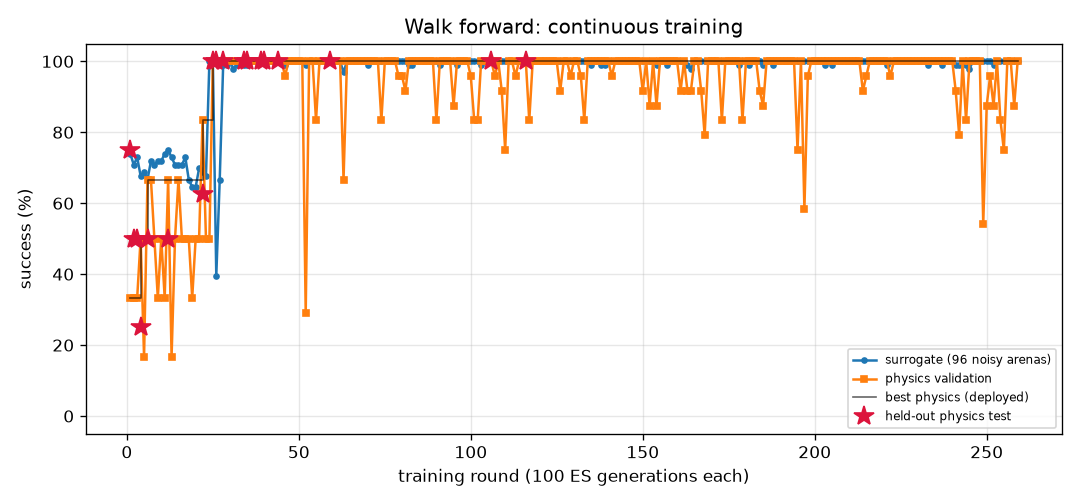
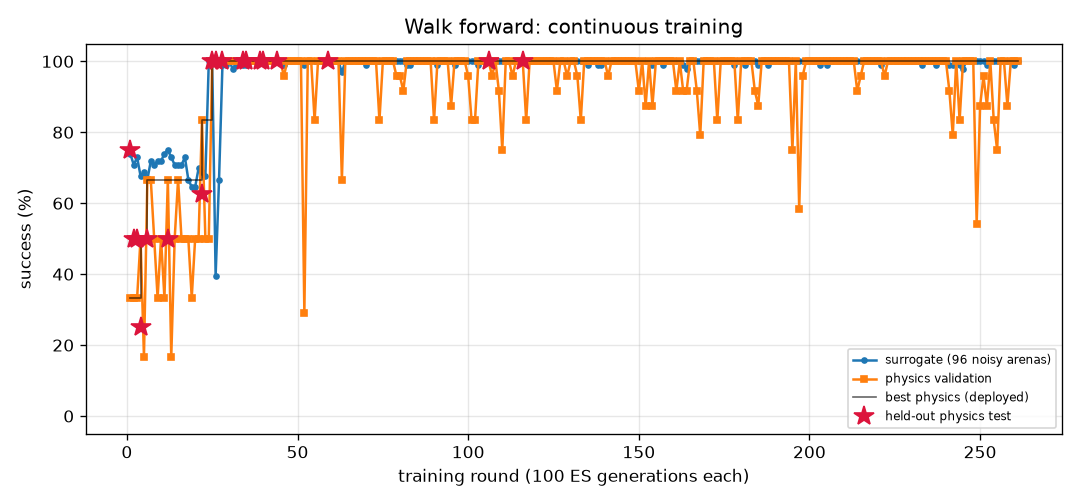
FlyLab: continuous training progress
- walk_forward: optimal, physics val 100% of 24, round 261
- turn: optimal, physics val 100% of 24, round 807
- goto: optimal, physics val 100% of 24, round 214
- odor_seek: optimal, physics val 100% of 24, round 182
- odor_avoid: optimal, physics val 100% of 24, round 733
- light_seek: optimal, physics val 100% of 24, round 409
- light_avoid: optimal, physics val 100% of 24, round 467

diff --git a/projects/09_flylab/training/turn/REPORT.md b/projects/09_flylab/training/turn/REPORT.md
@@ -1,14 +1,14 @@
 # Turn in place (`turn`) — training report
 
-*Auto-generated by `train_brains.py`, last updated 2026-11-01T22:28:25.*
+*Auto-generated by `train_brains.py`, last updated 2026-11-02T19:12:30.*
 
 ![curve](curve.png)
 
 | | |
 |---|---|
-| rounds | 803 |
-| ES generations | 80300 |
-| physics runs | 19518 |
+| rounds | 807 |
+| ES generations | 80700 |
+| physics runs | 19614 |
 | status | **optimal** |
 | best brain | round 80: physics validation **100%** on 24 arenas, surrogate 100% |
 | held-out physics test | **97%** on 32 unseen arenas (95% CI 84%-99%) (errors: [1.6, 3.3, 6.3, 3.7, 1.1, 0.4, 2.4, 2.9, 0.1, 2.6, 0.5, 2.7, 1.5, 3.1, 4.5, 0.2, 0.5, 1.1, 2.0, 4.4, 2.8, 3.2, 0.3, 2.2, 0.5, 3.0, 0.3, 5.4, 0.4, 1.0, 4.7, 10.7]) |
@@ -17,10 +17,6 @@ Physics error per arena: deg from target heading (< 20 = success).
 
 | round | level | gens | sigma | surrogate | physics val | val errors | test | note |
 |---:|---:|---:|---:|---:|---:|---|---:|---|
-| 764 | 3 | 76400 | 0.024 | 99% | 92% | [8.3, 9.9, 4.0, 4.8, 2.9, 1.6, 2.5, 4.4, 2.0, 2.6, 1.6, 2.8, 3.3, 3.7, 1.4, 2.0, 2.2, 1.8, 1.2, 1.7, 3.9, 0.1, 2.3, 2.7] |  | restart from best |
-| 765 | 3 | 76500 | 0.024 | 99% | 67% | [6.3, 2.7, 5.5, 0.8, 1.8, 0.2, 8.4, 7.5, 6.8, 1.0, 4.8, 0.1, 1.2, 1.2, 6.8, 2.7, 0.2, 2.8, 2.9, 3.9, 5.0, 1.3, 6.1, 8.2] |  |  |
-| 766 | 3 | 76600 | 0.025 | 99% | 83% | [3.1, 3.8, 4.1, 1.8, 4.3, 0.7, 6.8, 2.5, 5.8, 0.0, 5.2, 0.7, 1.0, 2.5, 3.1, 0.4, 1.1, 1.1, 0.3, 0.2, 6.4, 1.1, 5.8, 2.6] |  |  |
-| 767 | 3 | 76700 | 0.025 | 99% | 79% | [1.9, 3.5, 2.0, 0.4, 14.8, 113.2, 6.7, 7.9, 8.5, 15.0, 6.8, 3.1, 0.4, 2.0, 5.9, 4.4, 3.6, 4.0, 4.8, 3.4, 4.3, 3.9, 9.7, 3.5] |  |  |
 | 768 | 3 | 76800 | 0.025 | 99% | 92% | [2.6, 2.1, 4.3, 2.9, 4.6, 0.0, 7.1, 6.2, 7.2, 0.5, 5.3, 1.7, 0.7, 2.2, 4.3, 2.1, 1.6, 1.5, 0.6, 2.0, 6.3, 2.6, 6.0, 1.9] |  | restart from best |
 | 769 | 3 | 76900 | 0.024 | 100% | 75% | [6.7, 7.9, 1.4, 1.8, 1.3, 2.3, 4.2, 3.4, 3.4, 0.5, 3.9, 0.8, 3.9, 2.6, 3.8, 0.5, 0.8, 1.2, 0.8, 0.9, 2.9, 1.2, 3.5, 1.5] |  |  |
 | 770 | 3 | 77000 | 0.024 | 97% | 79% | [5.8, 3.0, 5.5, 0.4, 8.1, 1.2, 6.3, 8.2, 5.9, 0.2, 5.8, 0.1, 1.9, 0.3, 5.2, 2.1, 0.2, 1.3, 1.7, 1.5, 7.8, 0.0, 6.8, 6.0] |  |  |
@@ -57,3 +53,7 @@ Physics error per arena: deg from target heading (< 20 = success).
 | 801 | 3 | 80100 | 0.024 | 99% | 88% | [0.8, 0.7, 5.0, 1.7, 3.6, 7.4, 5.5, 5.1, 6.0, 4.1, 5.0, 1.8, 2.5, 0.7, 3.8, 3.3, 1.6, 2.8, 3.1, 10.9, 3.7, 1.0, 5.8, 8.0] |  |  |
 | 802 | 3 | 80200 | 0.025 | 98% | 67% | [8.0, 7.6, 8.5, 1.4, 1.4, 2.7, 8.1, 4.6, 9.5, 2.5, 4.9, 4.3, 2.8, 1.0, 6.1, 3.3, 5.3, 5.9, 3.3, 3.7, 2.5, 4.1, 9.7, 8.9] |  |  |
 | 803 | 3 | 80300 | 0.025 | 99% | 92% | [1.5, 2.7, 1.8, 0.0, 14.2, 1.6, 7.4, 6.9, 7.9, 2.2, 5.5, 3.2, 1.4, 0.9, 5.1, 13.4, 3.6, 3.6, 2.7, 5.8, 4.2, 3.0, 7.2, 3.0] |  |  |
+| 804 | 3 | 80400 | 0.025 | 99% | 100% | [2.0, 1.5, 12.9, 0.9, 13.2, 2.3, 6.9, 9.2, 7.1, 3.1, 4.7, 3.5, 1.4, 2.5, 3.5, 13.1, 3.3, 2.6, 4.7, 4.7, 3.2, 2.7, 6.6, 8.1] |  | restart from best |
+| 805 | 3 | 80500 | 0.024 | 97% | 58% | [8.8, 9.3, 0.9, 0.8, 3.8, 0.5, 4.0, 3.9, 4.2, 0.5, 2.2, 0.9, 1.2, 3.2, 4.3, 1.2, 0.3, 0.9, 1.4, 0.7, 8.8, 2.0, 4.4, 3.6] |  |  |
+| 806 | 3 | 80600 | 0.026 | 100% | 96% | [4.5, 7.8, 1.9, 3.4, 0.8, 0.9, 4.2, 3.3, 1.9, 0.9, 2.8, 0.2, 2.7, 0.6, 2.8, 0.5, 0.5, 1.7, 0.9, 0.4, 3.0, 0.9, 6.0, 2.1] |  |  |
+| 807 | 3 | 80700 | 0.024 | 100% | 83% | [0.0, 4.2, 7.3, 1.6, 3.7, 1.3, 7.3, 9.4, 7.2, 0.8, 6.8, 1.7, 1.5, 0.7, 6.9, 3.0, 1.4, 4.3, 4.3, 3.5, 2.1, 2.3, 8.3, 9.0] |  |  |

diff --git a/projects/09_flylab/training/walk_forward/REPORT.md b/projects/09_flylab/training/walk_forward/REPORT.md
@@ -1,14 +1,14 @@
 # Walk forward (`walk_forward`) — training report
 
-*Auto-generated by `train_brains.py`, last updated 2026-11-02T00:08:43.*
+*Auto-generated by `train_brains.py`, last updated 2026-11-02T00:52:18.*
 
 ![curve](curve.png)
 
 | | |
 |---|---|
-| rounds | 259 |
-| ES generations | 25900 |
-| physics runs | 6230 |
+| rounds | 261 |
+| ES generations | 26100 |
+| physics runs | 6278 |
 | status | **optimal** |
 | best brain | round 116: physics validation **100%** on 24 arenas, surrogate 100% |
 | held-out physics test | **100%** on 32 unseen arenas (95% CI 89%-100%) (errors: [0.13, 0.16, 0.19, 0.16, 0.15, 0.2, 0.17, 0.18, 0.17, 0.19, 0.2, 0.14, 0.17, 0.19, 0.2, 0.2, 0.13, 0.19, 0.16, 0.2, 0.2, 0.16, 0.17, 0.2, 0.13, 0.15, 0.18, 0.14, 0.16, 0.15, 0.19, 0.12]) |
@@ -17,8 +17,6 @@ Physics error per arena: mm from target at the end (< 1.5 and standing still = s
 
 | round | level | gens | sigma | surrogate | physics val | val errors | test | note |
 |---:|---:|---:|---:|---:|---:|---|---:|---|
-| 220 | 3 | 22000 | 0.024 | 100% | 100% | [0.31, 0.33, 0.25, 0.31, 0.34, 0.25, 0.33, 0.28, 0.34, 0.34, 0.24, 0.31, 0.27, 0.26, 0.33, 0.32, 0.3, 0.35, 0.28, 0.34, 0.28, 0.33, 0.3, 0.27] |  | restart from best |
-| 221 | 3 | 22100 | 0.024 | 99% | 100% | [0.24, 0.24, 0.19, 0.24, 0.24, 0.18, 0.24, 0.2, 0.23, 0.22, 0.17, 0.2, 0.2, 0.18, 0.24, 0.21, 0.23, 0.24, 0.21, 0.24, 0.22, 0.22, 0.2, 0.2] |  |  |
 | 222 | 3 | 22200 | 0.025 | 100% | 96% | [0.19, 0.15, 0.1, 0.1, 0.13, 0.07, 0.11, 0.06, 0.11, 0.12, 0.07, 0.16, 0.06, 0.09, 0.08, 0.16, 0.11, 0.1, 0.06, 0.05, 0.11, 0.12, 0.17, 0.06] |  |  |
 | 223 | 3 | 22300 | 0.024 | 100% | 100% | [0.27, 0.24, 0.2, 0.27, 0.24, 0.2, 0.25, 0.24, 0.25, 0.23, 0.19, 0.21, 0.23, 0.2, 0.27, 0.22, 0.27, 0.24, 0.25, 0.26, 0.25, 0.23, 0.21, 0.24] |  |  |
 | 224 | 3 | 22400 | 0.024 | 100% | 100% | [0.3, 0.31, 0.26, 0.3, 0.31, 0.25, 0.31, 0.28, 0.31, 0.3, 0.25, 0.29, 0.27, 0.25, 0.31, 0.29, 0.3, 0.31, 0.28, 0.31, 0.29, 0.3, 0.29, 0.27] |  | restart from best |
@@ -57,3 +55,5 @@ Physics error per arena: mm from target at the end (< 1.5 and standing still = s
 | 257 | 3 | 25700 | 0.024 | 100% | 100% | [0.24, 0.28, 0.17, 0.23, 0.27, 0.17, 0.27, 0.17, 0.27, 0.27, 0.17, 0.25, 0.17, 0.17, 0.25, 0.25, 0.22, 0.28, 0.18, 0.26, 0.19, 0.27, 0.24, 0.18] |  |  |
 | 258 | 3 | 25800 | 0.024 | 100% | 88% | [0.1, 0.13, 0.72, 0.06, 0.1, 0.08, 0.18, 0.02, 0.12, 0.11, 0.13, 0.19, 0.06, 0.54, 0.23, 0.11, 0.05, 0.21, 0.41, 0.2, 0.09, 0.18, 0.12, 0.05] |  |  |
 | 259 | 3 | 25900 | 0.024 | 100% | 100% | [0.28, 0.28, 0.22, 0.28, 0.28, 0.2, 0.28, 0.24, 0.28, 0.25, 0.19, 0.23, 0.24, 0.21, 0.29, 0.24, 0.28, 0.29, 0.25, 0.28, 0.26, 0.25, 0.23, 0.24] |  |  |
+| 260 | 3 | 26000 | 0.024 | 99% | 100% | [0.2, 0.18, 0.23, 0.2, 0.18, 0.23, 0.18, 0.21, 0.18, 0.17, 0.24, 0.16, 0.23, 0.23, 0.2, 0.17, 0.2, 0.18, 0.22, 0.19, 0.23, 0.17, 0.16, 0.23] |  | restart from best |
+| 261 | 3 | 26100 | 0.024 | 100% | 100% | [0.49, 0.46, 0.46, 0.5, 0.46, 0.44, 0.46, 0.48, 0.46, 0.45, 0.42, 0.44, 0.48, 0.44, 0.49, 0.45, 0.5, 0.48, 0.48, 0.49, 0.49, 0.45, 0.44, 0.48] |  |  |

diff --git a/projects/09_flylab/training/goto/REPORT.md b/projects/09_flylab/training/goto/REPORT.md
@@ -1,14 +1,14 @@
 # Go to a location (`goto`) — training report
 
-*Auto-generated by `train_brains.py`, last updated 2026-11-01T21:24:36.*
+*Auto-generated by `train_brains.py`, last updated 2026-11-02T01:07:51.*
 
 ![curve](curve.png)
 
 | | |
 |---|---|
-| rounds | 213 |
-| ES generations | 21300 |
-| physics runs | 5062 |
+| rounds | 214 |
+| ES generations | 21400 |
+| physics runs | 5086 |
 | status | **optimal** |
 | best brain | round 176: physics validation **100%** on 24 arenas, surrogate 100% |
 | held-out physics test | **100%** on 32 unseen arenas (95% CI 89%-100%) (errors: [0.2, 0.32, 0.19, 0.24, 0.18, 0.2, 0.19, 0.17, 0.22, 0.23, 0.23, 0.26, 0.2, 0.19, 0.24, 0.23, 0.22, 0.24, 0.2, 0.22, 0.2, 0.2, 0.26, 0.19, 0.22, 0.18, 0.26, 0.22, 0.2, 0.26, 0.23, 0.23]) |
@@ -17,7 +17,6 @@ Physics error per arena: mm from target at the end (< 1.5 and standing still = s
 
 | round | level | gens | sigma | surrogate | physics val | val errors | test | note |
 |---:|---:|---:|---:|---:|---:|---|---:|---|
-| 174 | 3 | 17400 | 0.025 | 97% | 100% | [0.47, 0.44, 0.38, 0.38, 0.39, 0.37, 0.45, 0.42, 0.44, 0.37, 0.37, 0.37, 0.46, 0.39, 0.36, 0.44, 0.47, 0.46, 0.4, 0.45, 0.43, 0.4, 0.46, 0.38] |  |  |
 | 175 | 3 | 17500 | 0.026 | 97% | 100% | [0.41, 0.44, 0.44, 0.44, 0.44, 0.41, 0.44, 0.45, 0.45, 0.45, 0.44, 0.43, 0.44, 0.46, 0.44, 0.47, 0.44, 0.41, 0.44, 0.45, 0.46, 0.45, 0.43, 0.43] |  | restart from best |
 | 176 | 3 | 17600 | 0.025 | 100% | 100% | [0.25, 0.25, 0.21, 0.23, 0.19, 0.23, 0.23, 0.25, 0.27, 0.17, 0.2, 0.23, 0.26, 0.22, 0.17, 0.21, 0.25, 0.22, 0.17, 0.23, 0.2, 0.18, 0.27, 0.25] | 100% | new best |
 | 177 | 3 | 17700 | 0.024 | 99% | 100% | [0.49, 0.54, 0.53, 0.47, 0.44, 0.45, 0.52, 0.53, 0.54, 0.45, 0.42, 0.44, 0.55, 0.47, 0.52, 0.54, 0.52, 0.5, 0.44, 0.52, 0.52, 0.43, 0.52, 0.48] |  |  |
@@ -57,3 +56,4 @@ Physics error per arena: mm from target at the end (< 1.5 and standing still = s
 | 211 | 3 | 21100 | 0.024 | 100% | 100% | [0.74, 0.73, 0.74, 0.67, 0.63, 0.66, 0.75, 0.68, 0.71, 0.64, 0.62, 0.66, 0.73, 0.59, 0.65, 0.67, 0.75, 0.66, 0.64, 0.71, 0.67, 0.67, 0.74, 0.66] |  |  |
 | 212 | 3 | 21200 | 0.024 | 100% | 100% | [0.42, 0.46, 0.45, 0.39, 0.36, 0.38, 0.45, 0.42, 0.43, 0.37, 0.36, 0.39, 0.45, 0.37, 0.44, 0.44, 0.44, 0.38, 0.36, 0.43, 0.41, 0.39, 0.43, 0.39] |  | restart from best |
 | 213 | 3 | 21300 | 0.024 | 99% | 100% | [0.59, 0.61, 0.48, 0.6, 0.49, 0.56, 0.59, 0.64, 0.61, 0.49, 0.5, 0.58, 0.58, 0.52, 0.5, 0.58, 0.62, 0.6, 0.5, 0.62, 0.56, 0.51, 0.58, 0.62] |  |  |
+| 214 | 3 | 21400 | 0.025 | 100% | 92% | [0.3, 0.34, 0.31, 0.25, 0.06, 0.14, 0.29, 0.28, 0.27, 0.21, 2.43, 0.26, 0.29, 0.26, 0.3, 0.3, 0.33, 0.35, 2.71, 0.27, 0.21, 0.24, 0.32, 0.24] |  |  |

diff --git a/projects/09_flylab/training/TRAINING.md b/projects/09_flylab/training/TRAINING.md
@@ -1,14 +1,14 @@
 # FlyLab brains — continuous training log
 
-*Auto-generated by `train_brains.py`, last updated 2026-11-02T00:22:20.*
+*Auto-generated by `train_brains.py`, last updated 2026-11-02T19:12:30.*
 
 Every skill has its own brain and its own training process: surrogate ES rounds, physics validation in MuJoCo, keep-the-best selection, and a held-out physics test that is never used for selection. See each skill's report for its full round-by-round history. Mastery is progressive: passing a level (100% physics validation, >=95% surrogate) doubles the validation and test arena sets; a brain is **optimal** once it holds up at level 3 (>=95% of 24 validation arenas) AND scores >=90% on the 32 held-out test arenas. Test columns show 95% Wilson confidence intervals.
 
 | skill | rounds | ES generations | physics runs | surrogate | physics val | **physics test** | status |
 |---|---:|---:|---:|---:|---:|---:|---|
-| [Walk forward](walk_forward/REPORT.md) | 259 | 25900 | 6230 | 100% | 100% of 24 | 100% of 32 (CI 89-100%) | **optimal** |
-| [Turn in place](turn/REPORT.md) | 803 | 80300 | 19518 | 100% | 100% of 24 | 97% of 32 (CI 84-99%) | **optimal** |
-| [Go to a location](goto/REPORT.md) | 213 | 21300 | 5062 | 100% | 100% of 24 | 100% of 32 (CI 89-100%) | **optimal** |
+| [Walk forward](walk_forward/REPORT.md) | 261 | 26100 | 6278 | 100% | 100% of 24 | 100% of 32 (CI 89-100%) | **optimal** |
+| [Turn in place](turn/REPORT.md) | 807 | 80700 | 19614 | 100% | 100% of 24 | 97% of 32 (CI 84-99%) | **optimal** |
+| [Go to a location](goto/REPORT.md) | 214 | 21400 | 5086 | 100% | 100% of 24 | 100% of 32 (CI 89-100%) | **optimal** |
 | [Find food by smell](odor_seek/REPORT.md) | 182 | 18200 | 3798 | 100% | 100% of 24 | 100% of 32 (CI 89-100%) | **optimal** |
 | [Escape a bad smell](odor_avoid/REPORT.md) | 733 | 73300 | 14898 | 97% | 100% of 24 | 97% of 32 (CI 84-99%) | **optimal** |
 | [Walk toward light](light_seek/REPORT.md) | 409 | 40900 | 6696 | 100% | 100% of 24 | 100% of 32 (CI 89-100%) | **optimal** |
